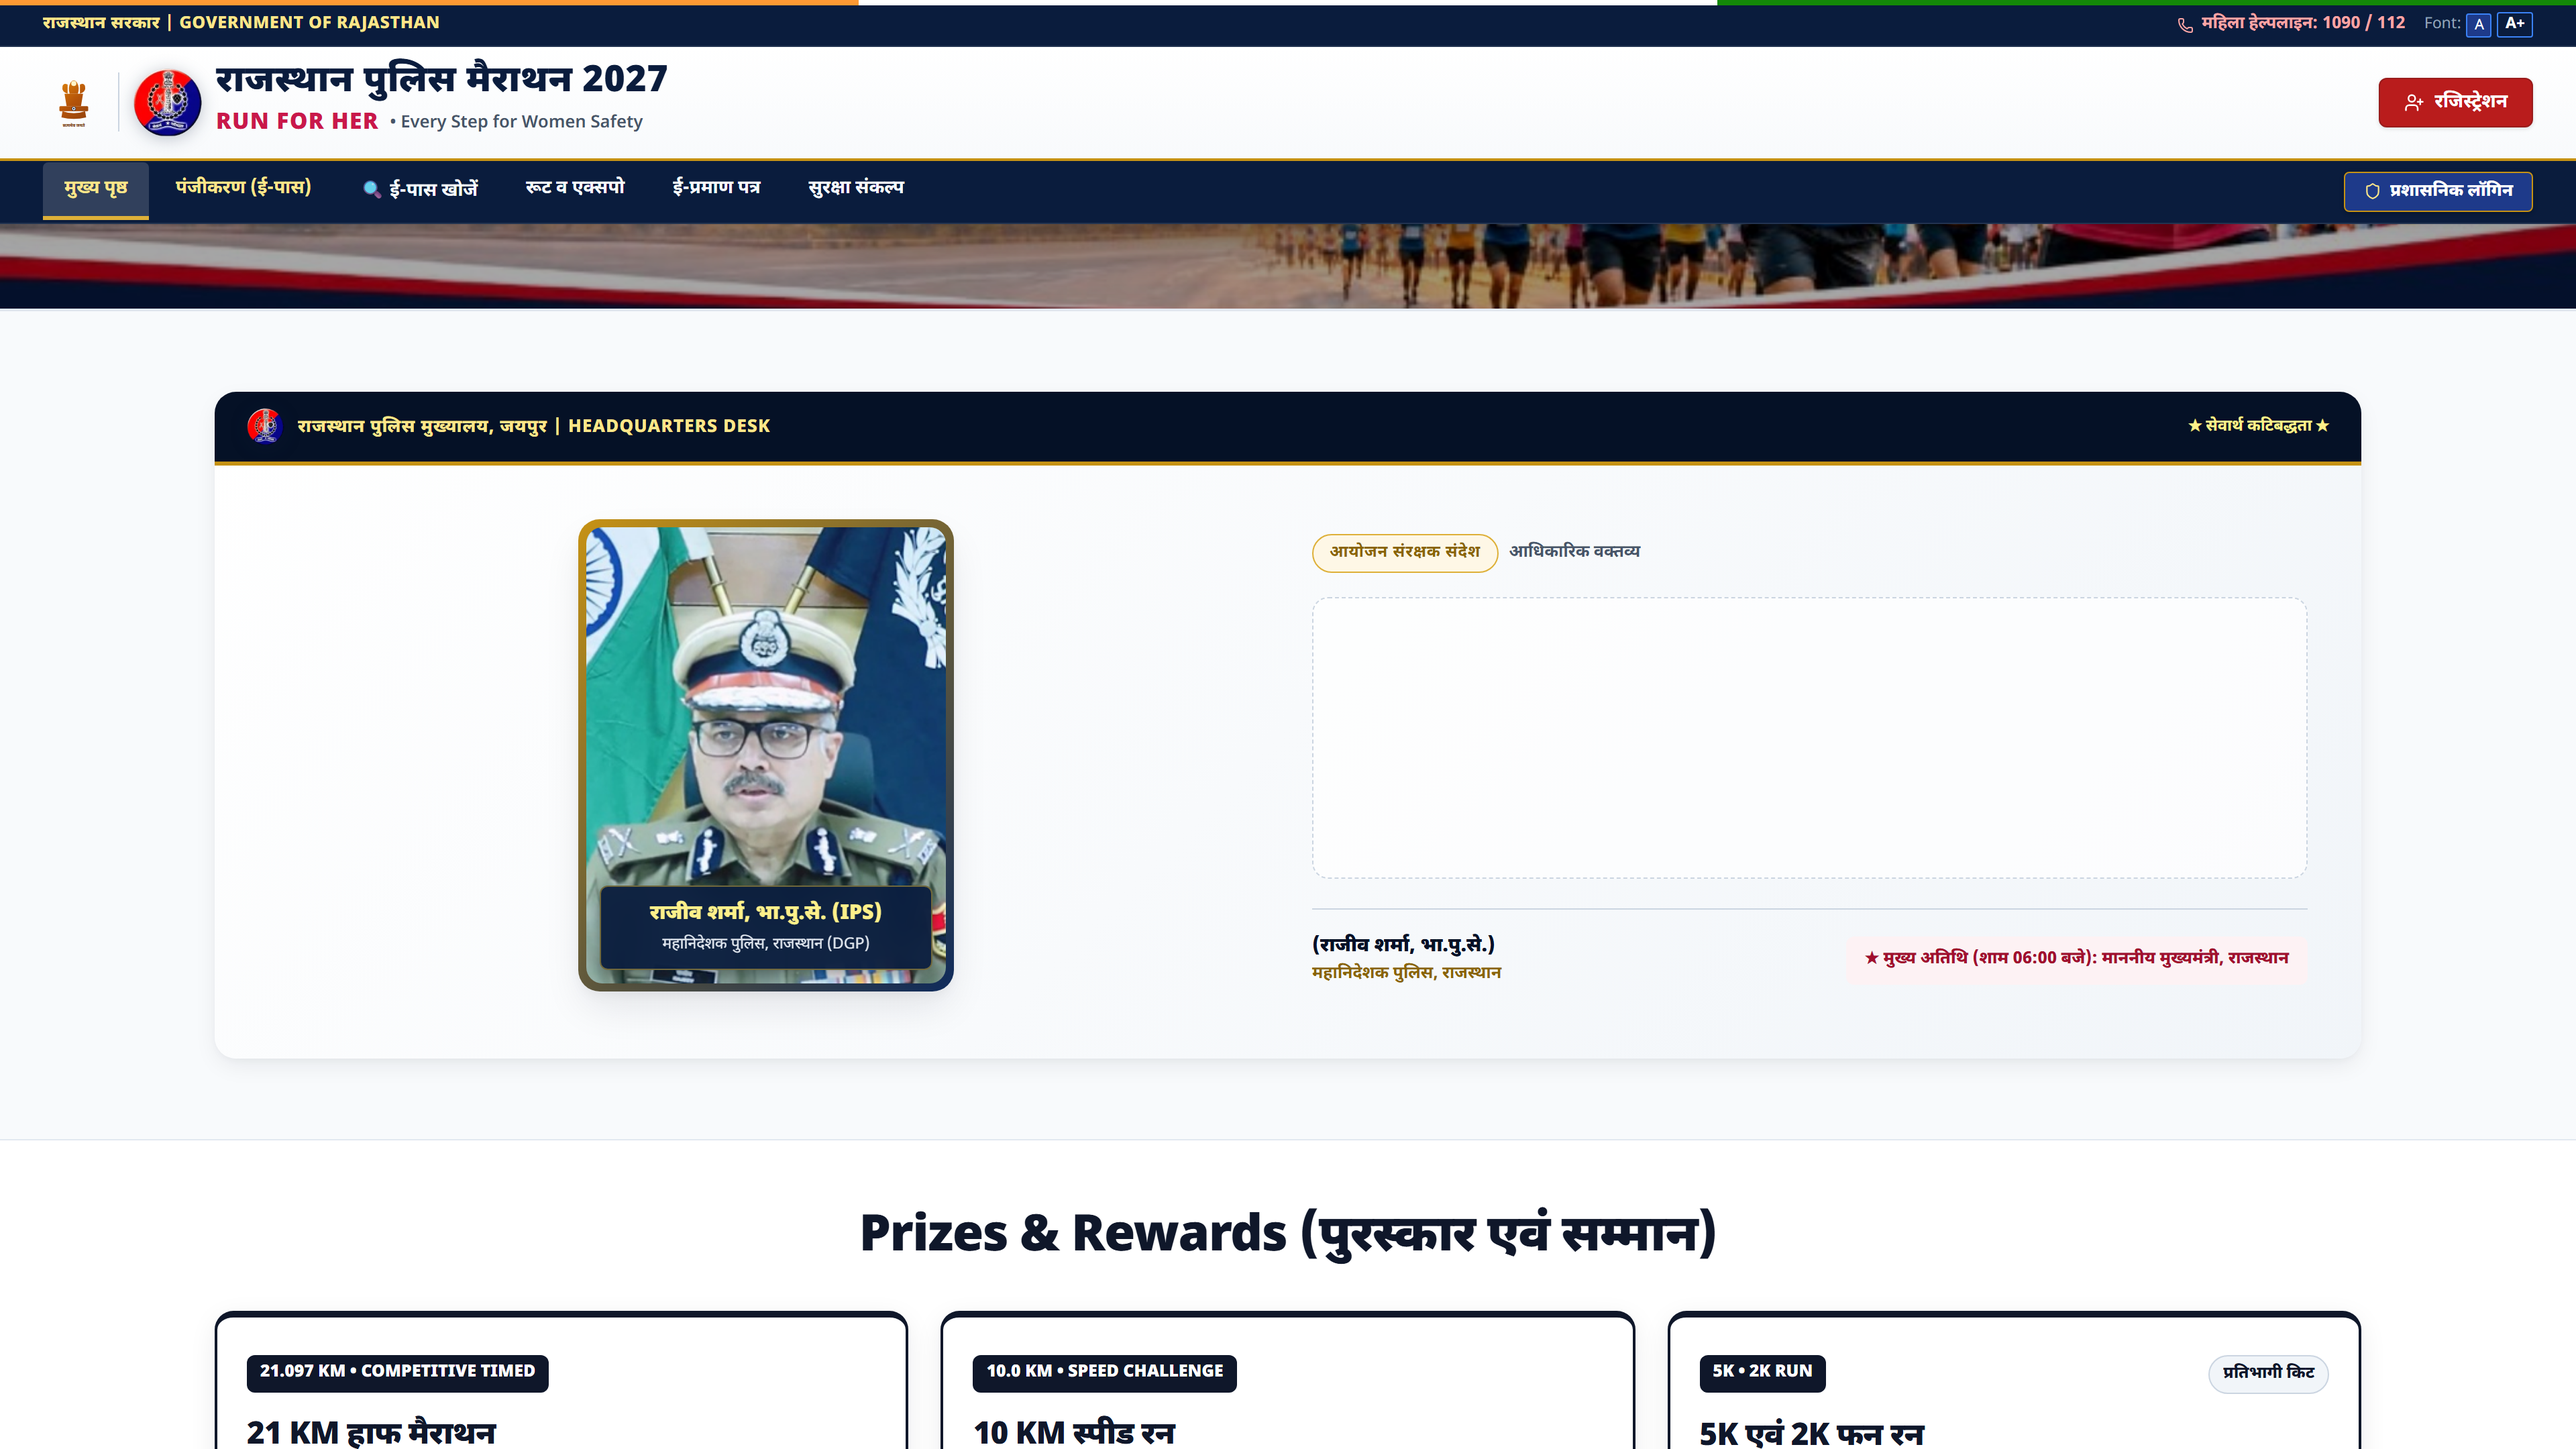
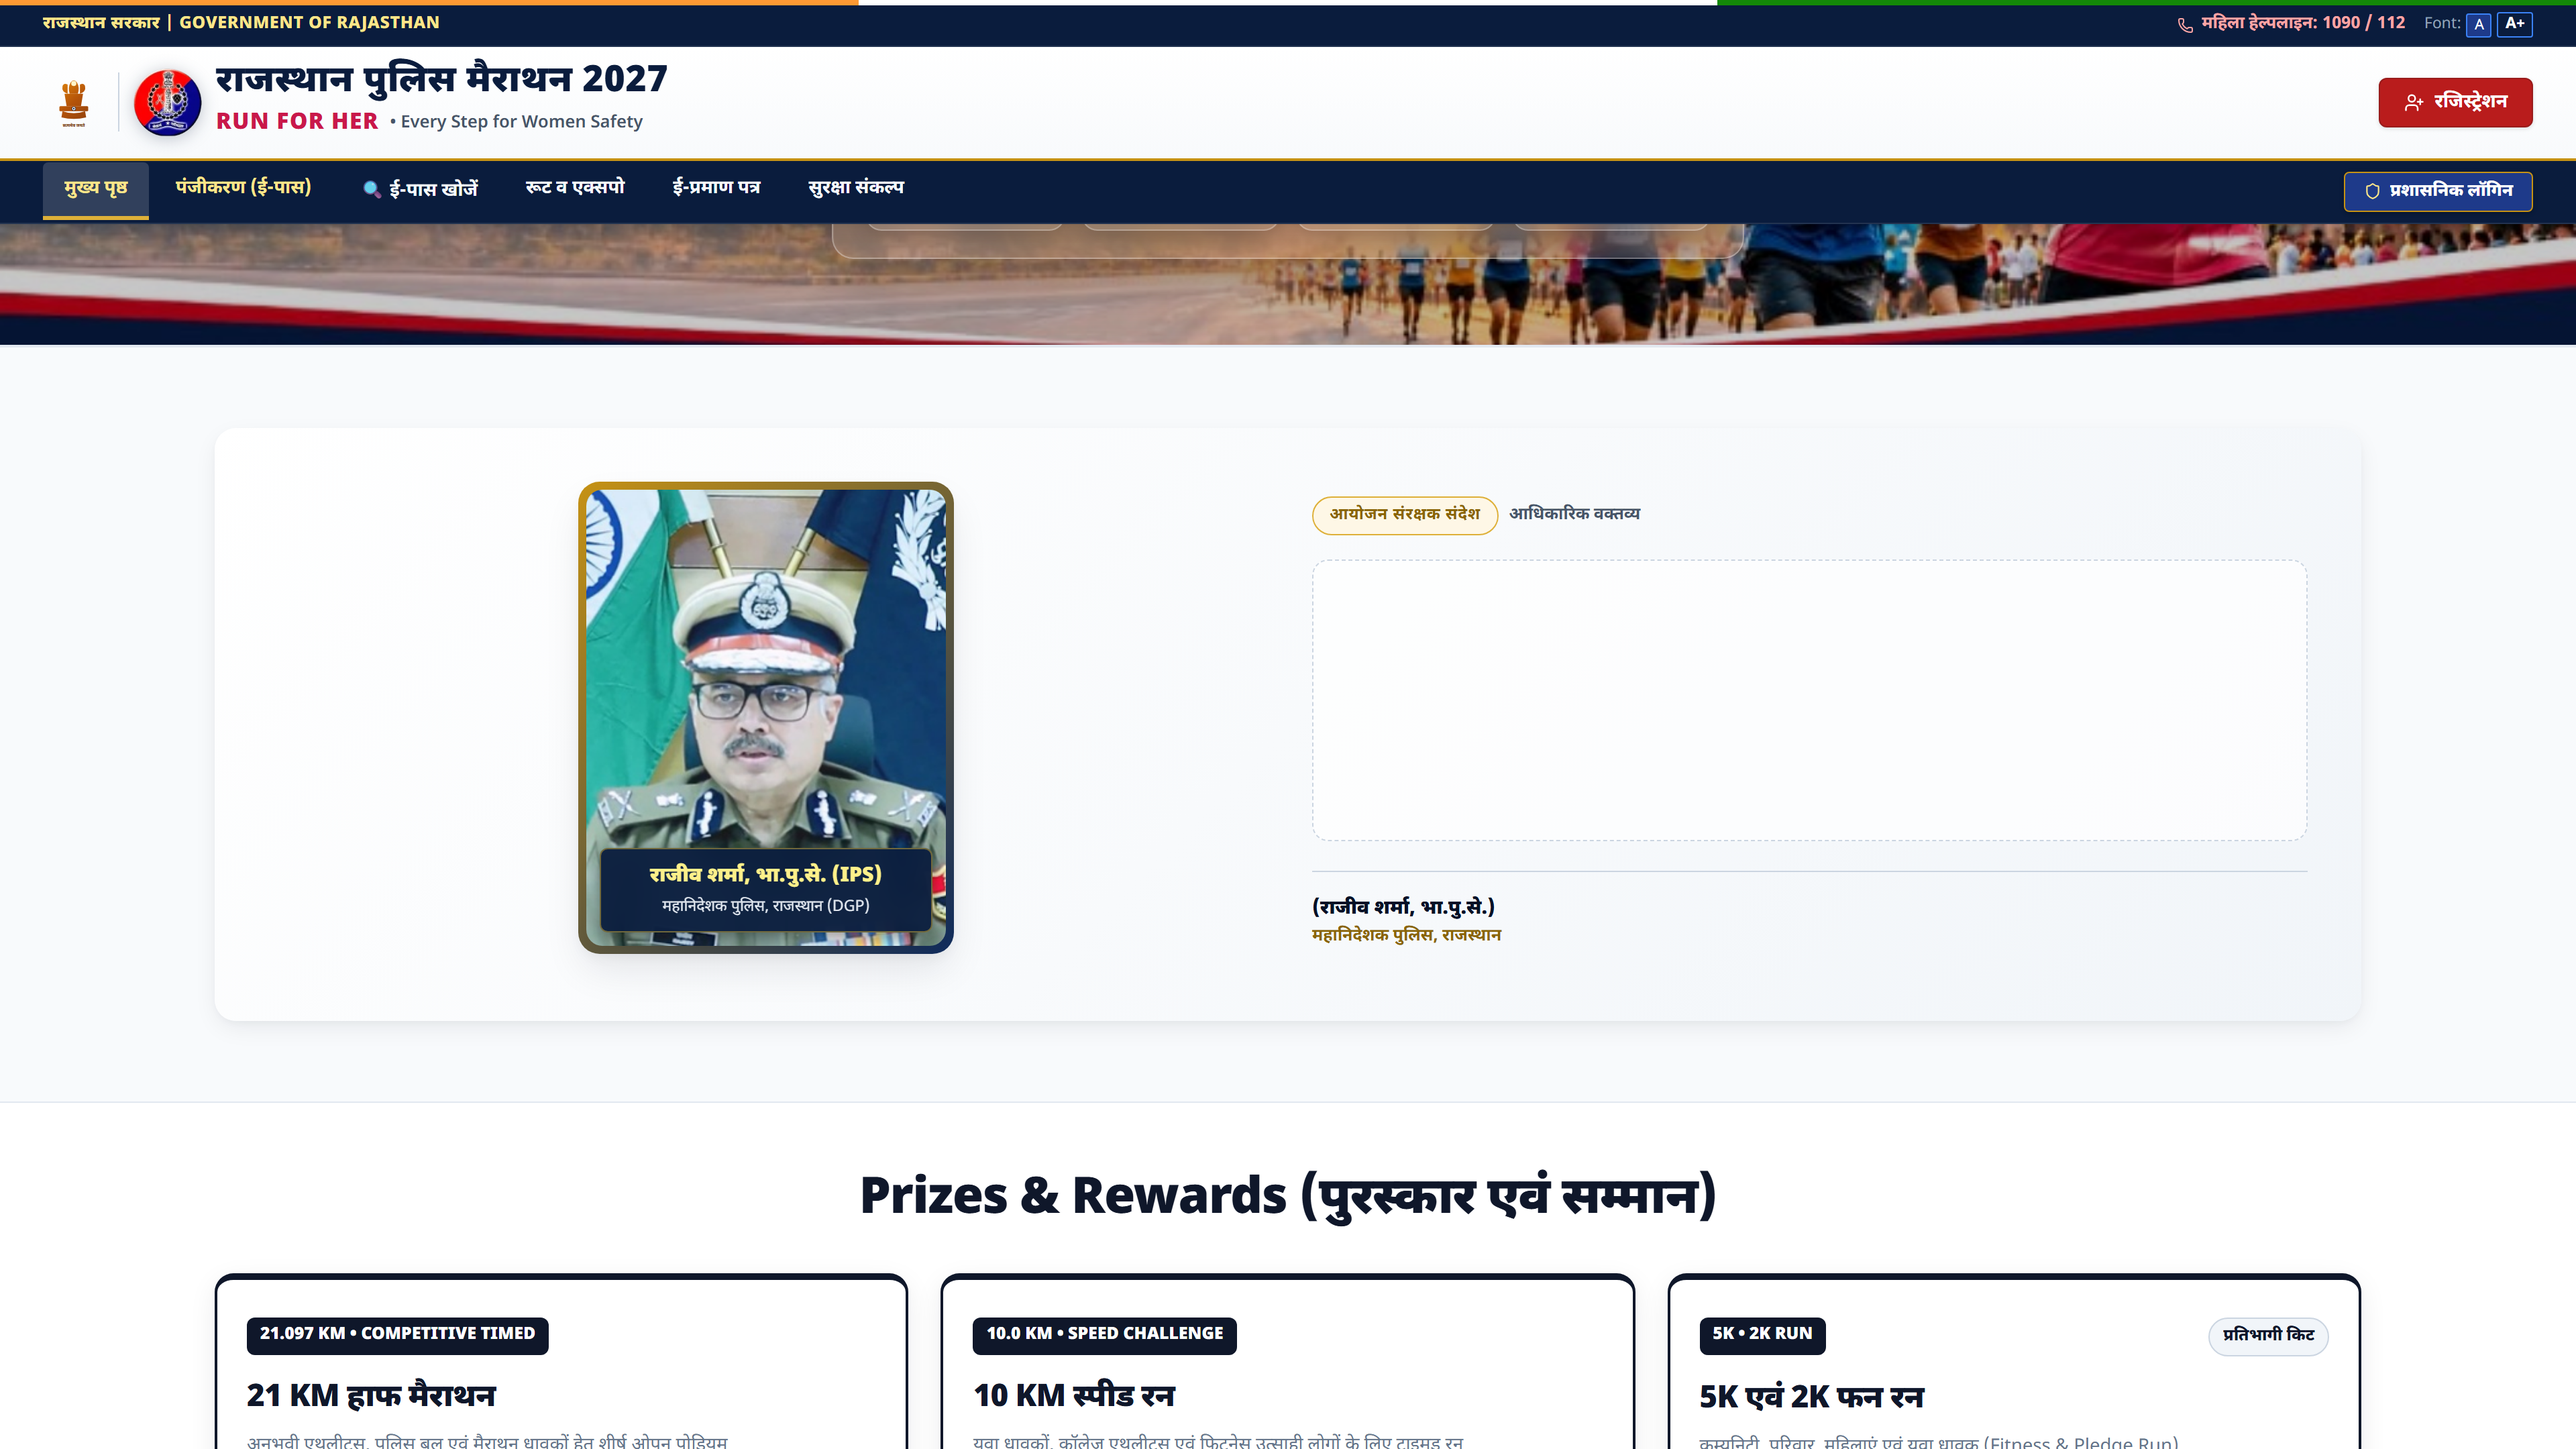
Add pure transparent glass countdown timer, simple Marathon Certificate heading, remove patron desk top bar and guest text

diff --git a/src/components/Hero.jsx b/src/components/Hero.jsx
@@ -148,39 +148,39 @@ export function Hero({ onOpenRegister, onOpenFindPass, totalRegistered = "1000+"
               </button>
             </div>
 
-            {/* Transparent Glassmorphic Countdown Card */}
+            {/* Pure Transparent Glassmorphic Countdown Card */}
             <div className="hero-countdown-card">
-              <div style={{ display: 'flex', alignItems: 'center', justifyContent: 'center', gap: '8px', color: '#fde68a', fontWeight: 800, fontSize: '0.94rem', marginBottom: '14px', borderBottom: '1px solid rgba(255, 255, 255, 0.15)', paddingBottom: '10px' }}>
+              <div style={{ display: 'flex', alignItems: 'center', justifyContent: 'center', gap: '8px', color: '#fde68a', fontWeight: 800, fontSize: '0.94rem', marginBottom: '14px', borderBottom: '1px solid rgba(255, 255, 255, 0.2)', paddingBottom: '10px' }}>
                 <Timer size={18} color="#fde68a" />
-                <span style={{ letterSpacing: '0.04em' }}>इवेंट काउंटडाउन</span>
+                <span style={{ letterSpacing: '0.04em' }}>इवेंट काउंटडाउन (Event Countdown)</span>
               </div>
 
               <div className="hero-countdown-grid" style={{ display: 'grid', gridTemplateColumns: 'repeat(4, 1fr)', gap: '12px', textAlign: 'center' }}>
                 {[
-                  { label: 'दिन', val: String(timeLeft.days).padStart(2, '0') },
-                  { label: 'घंटे', val: String(timeLeft.hours).padStart(2, '0') },
-                  { label: 'मिनट', val: String(timeLeft.minutes).padStart(2, '0') },
-                  { label: 'सेकंड', val: String(timeLeft.seconds).padStart(2, '0') }
+                  { label: 'दिन / Days', val: String(timeLeft.days).padStart(2, '0') },
+                  { label: 'घंटे / Hours', val: String(timeLeft.hours).padStart(2, '0') },
+                  { label: 'मिनट / Mins', val: String(timeLeft.minutes).padStart(2, '0') },
+                  { label: 'सेकंड / Secs', val: String(timeLeft.seconds).padStart(2, '0') }
                 ].map((item, idx) => (
                   <div key={idx} className="hero-countdown-box" style={{
-                    background: 'rgba(255, 255, 255, 0.1)',
-                    backdropFilter: 'blur(10px)',
-                    WebkitBackdropFilter: 'blur(10px)',
+                    background: 'rgba(255, 255, 255, 0.08)',
+                    backdropFilter: 'blur(12px)',
+                    WebkitBackdropFilter: 'blur(12px)',
                     borderRadius: '12px',
                     padding: '14px 8px',
-                    border: '1px solid rgba(255, 255, 255, 0.25)',
-                    boxShadow: '0 4px 16px rgba(0, 0, 0, 0.15)'
+                    border: '1px solid rgba(255, 255, 255, 0.28)',
+                    boxShadow: '0 4px 16px rgba(0, 0, 0, 0.15), inset 0 1px 1px rgba(255, 255, 255, 0.2)'
                   }}>
                     <div className="hero-countdown-val" style={{
                       fontSize: 'clamp(1.8rem, 4vw, 2.8rem)',
                       fontWeight: 900,
                       color: '#fde68a',
                       lineHeight: 1,
-                      textShadow: '0 2px 8px rgba(0,0,0,0.4)'
+                      textShadow: '0 2px 10px rgba(0,0,0,0.5)'
                     }}>
                       {item.val}
                     </div>
-                    <div className="hero-countdown-lbl" style={{ fontSize: '0.78rem', color: '#f8fafc', fontWeight: 800, letterSpacing: '0.04em', marginTop: '6px' }}>
+                    <div className="hero-countdown-lbl" style={{ fontSize: '0.78rem', color: '#ffffff', fontWeight: 800, letterSpacing: '0.04em', marginTop: '6px', textShadow: '0 1px 4px rgba(0,0,0,0.4)' }}>
                       {item.label}
                     </div>
                   </div>
@@ -221,12 +221,10 @@ export function Hero({ onOpenRegister, onOpenFindPass, totalRegistered = "1000+"
         .hero-base-tint {
           position: absolute;
           inset: 0;
-          background: rgba(0, 0, 0, 0.35);
+          background: rgba(0, 0, 0, 0.22);
           z-index: 1;
           pointer-events: none;
         }
-
-
 
         .hero-cta-group {
           display: flex;
@@ -242,11 +240,11 @@ export function Hero({ onOpenRegister, onOpenFindPass, totalRegistered = "1000+"
           margin: 0 auto;
           padding: 20px 24px;
           border-radius: 16px;
-          background: rgba(10, 28, 61, 0.4);
-          backdrop-filter: blur(14px);
-          -webkit-backdrop-filter: blur(14px);
-          box-shadow: 0 16px 36px rgba(0, 0, 0, 0.3);
-          border: 1px solid rgba(255, 255, 255, 0.22);
+          background: rgba(255, 255, 255, 0.08);
+          backdrop-filter: blur(16px);
+          -webkit-backdrop-filter: blur(16px);
+          box-shadow: 0 16px 40px rgba(0, 0, 0, 0.25), inset 0 1px 1px rgba(255, 255, 255, 0.35);
+          border: 1px solid rgba(255, 255, 255, 0.3);
           color: #ffffff;
         }
 

diff --git a/src/components/PatronDesk.jsx b/src/components/PatronDesk.jsx
@@ -1,5 +1,4 @@
 import React from 'react';
-import { PoliceEmblem } from './Emblems';
 
 export function PatronDesk() {
   return (
@@ -15,29 +14,6 @@ export function PatronDesk() {
           overflow: 'hidden',
           marginBottom: '0'
         }}>
-          {/* Official Top Bar */}
-          <div style={{
-            background: 'var(--police-navy-950)',
-            color: '#ffffff',
-            padding: '12px 24px',
-            display: 'flex',
-            justifyContent: 'space-between',
-            alignItems: 'center',
-            flexWrap: 'wrap',
-            gap: '10px',
-            borderBottom: '3px solid var(--police-gold-500)'
-          }}>
-            <div style={{ display: 'flex', alignItems: 'center', gap: '10px' }}>
-              <PoliceEmblem size={28} />
-              <span style={{ fontSize: '0.82rem', fontWeight: 800, color: '#fde68a', letterSpacing: '0.04em' }}>
-                राजस्थान पुलिस मुख्यालय, जयपुर | HEADQUARTERS DESK
-              </span>
-            </div>
-            <div style={{ fontSize: '0.74rem', color: '#fef08a', fontWeight: 700 }}>
-              ★ सेवार्थ कटिबद्धता ★
-            </div>
-          </div>
-
           <div style={{ padding: 'clamp(24px, 4vw, 40px)', display: 'grid', gridTemplateColumns: 'repeat(auto-fit, minmax(280px, 1fr))', gap: '36px', alignItems: 'center' }}>
             {/* DGP Portrait & Designation */}
             <div style={{ textAlign: 'center', maxWidth: '340px', margin: '0 auto' }}>
@@ -120,18 +96,6 @@ export function PatronDesk() {
                   <div style={{ fontSize: '0.78rem', color: 'var(--police-gold-700)', fontWeight: 700 }}>
                     महानिदेशक पुलिस, राजस्थान
                   </div>
-                </div>
-
-                <div style={{
-                  background: 'var(--crimson-50)',
-                  border: '1px solid var(--crimson-200)',
-                  padding: '8px 14px',
-                  borderRadius: '6px',
-                  fontSize: '0.78rem',
-                  color: 'var(--crimson-700)',
-                  fontWeight: 800
-                }}>
-                  ★ मुख्य अतिथि (शाम 06:00 बजे): माननीय मुख्यमंत्री, राजस्थान
                 </div>
               </div>
             </div>

diff --git a/src/components/CertificateHub.jsx b/src/components/CertificateHub.jsx
@@ -541,12 +541,10 @@ export function CertificateHub({ registrations = [] }) {
   return (
     <section id="certificates" className="section-padding" style={{ position: 'relative', background: '#f8fafc', borderTop: '1px solid var(--border-subtle)' }}>
       <div className="container">
-        <div className="section-header no-print">
-          <span className="badge-gold">Official Finisher Honors</span>
-          <h2>डिजिटल फिनिशर सर्टिफिकेट एवं ऑटो-डिस्पैच हब</h2>
-          <p>
-            रेस पूरी होते ही तय दूरी के आधार पर राजस्थान पुलिस मुख्यालय द्वारा अधिकृत डिजिटल सर्टिफिकेट स्वतः जनरेट होकर धावक के मोबाइल (SMS/WhatsApp) व ईमेल पर प्रेषित हो जाता है।
-          </p>
+        <div className="section-header no-print" style={{ marginBottom: '28px', textAlign: 'center' }}>
+          <h2 style={{ fontSize: 'clamp(1.75rem, 3.5vw, 2.35rem)', color: 'var(--police-navy-950)', margin: '0 0 8px 0', fontWeight: 800 }}>
+            Marathon Certificate (मैराथन ई-प्रमाण पत्र)
+          </h2>
         </div>
 
         {/* Runner Selector & Quick Search Bar */}
